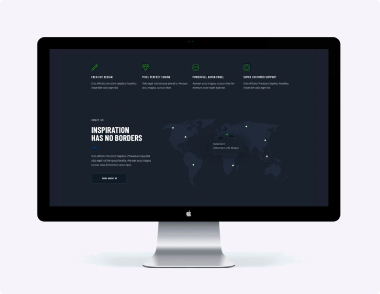
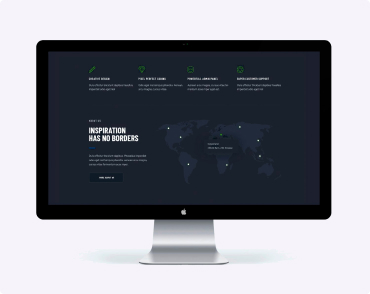
Зміна ширини контейнера на 1200

diff --git a/css/styles.css b/css/styles.css
@@ -30,7 +30,7 @@ body {
 }*/
 
 .container {
-    width: 1230px;
+    width: 1200px;
     padding-left: 15px;
     padding-right: 15px;
     margin-left: auto;
@@ -213,12 +213,7 @@ body {
 
     /* Чем занимаемся */
 
-/*.feature-list .item-work {
-    width: 270px;*/
-}
-.item-work {
-    width: 370px;
-}
+    
 .feature-list .item-work:not(:last-child) {
     margin-right: 30px;
 }
